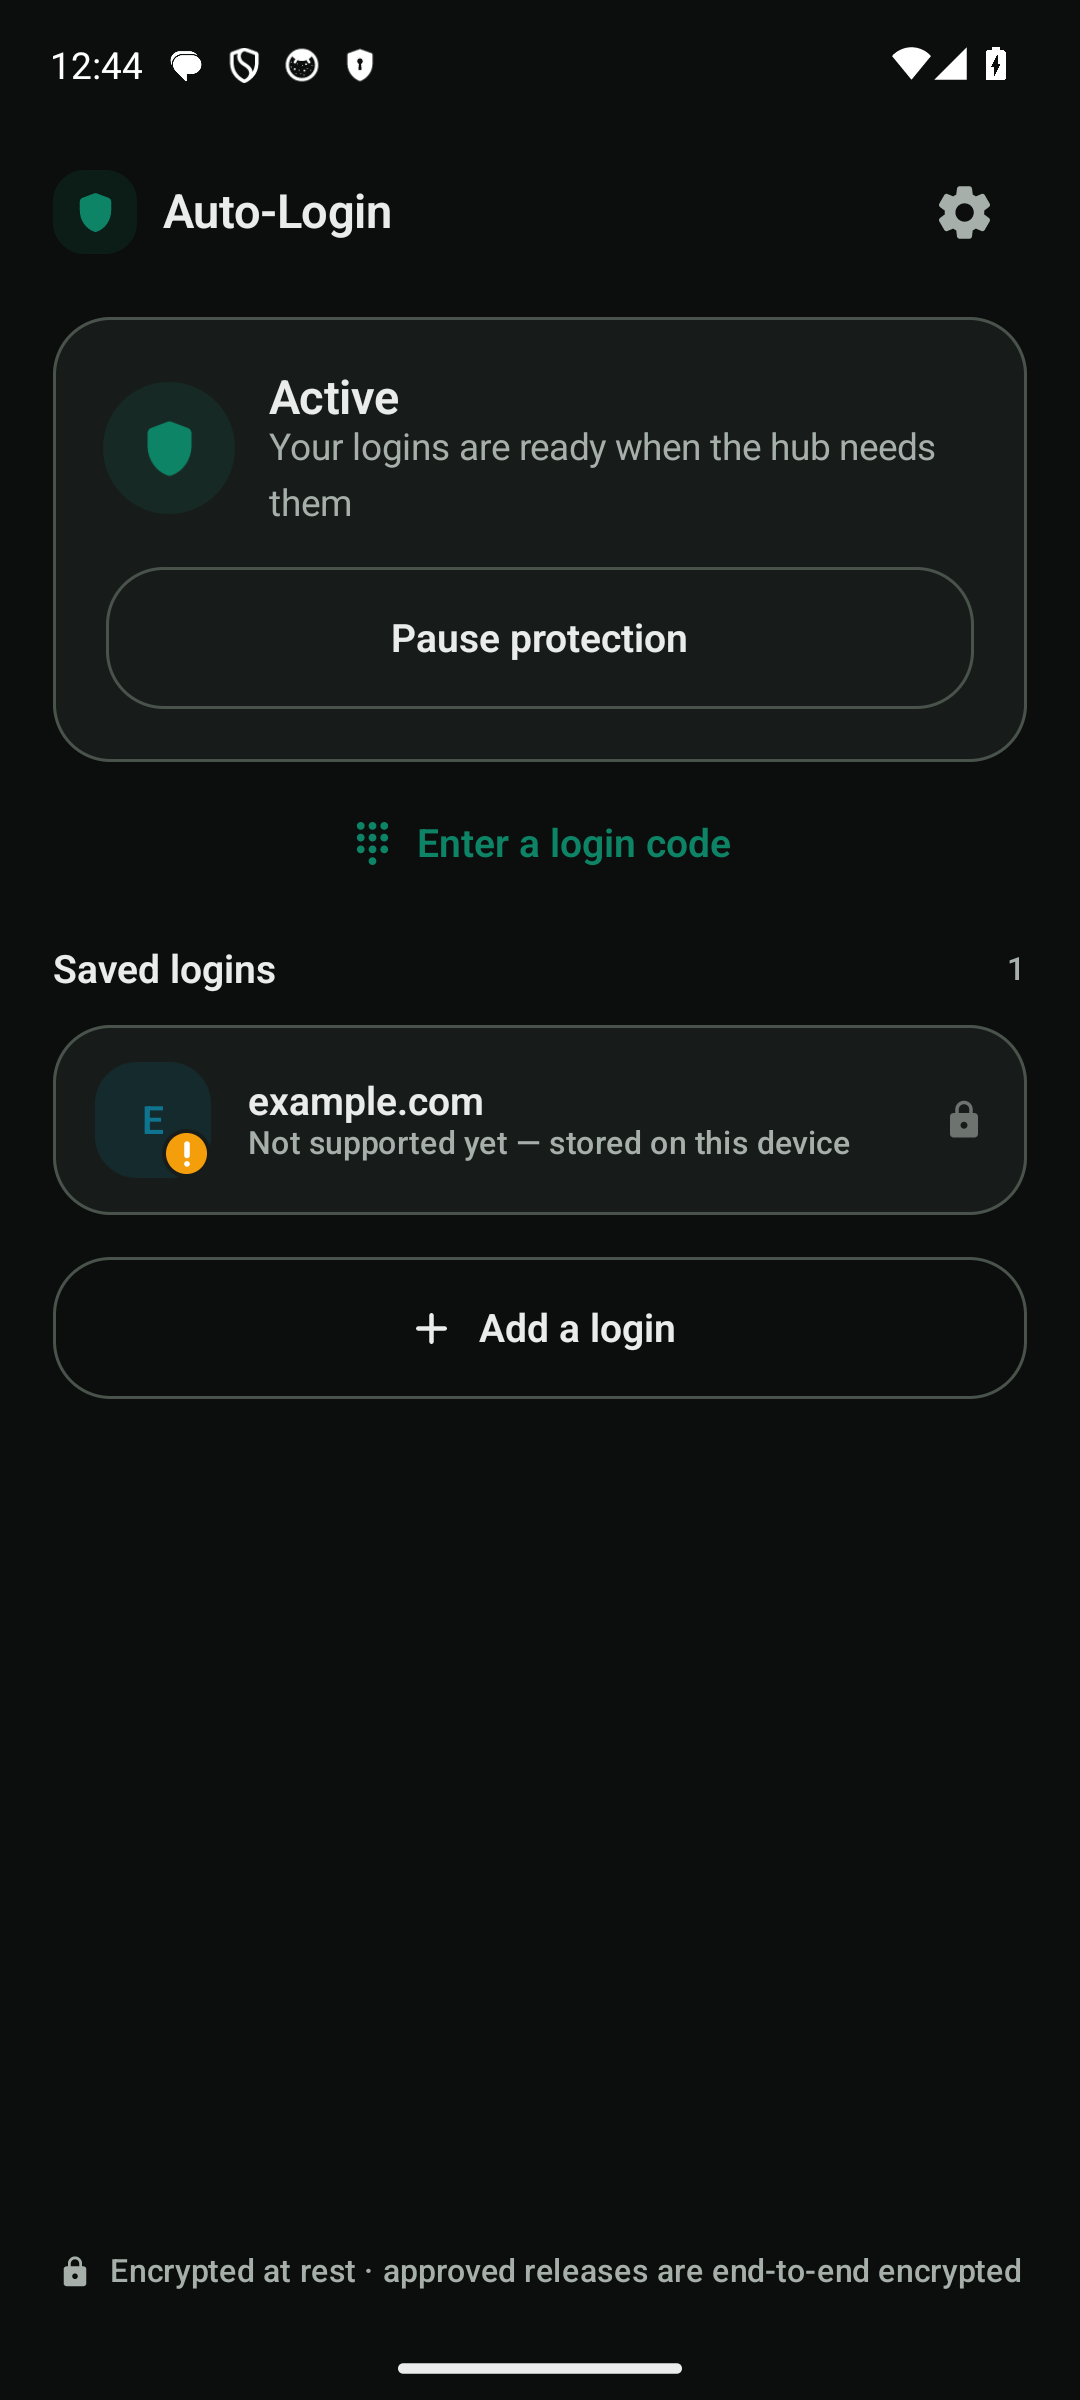
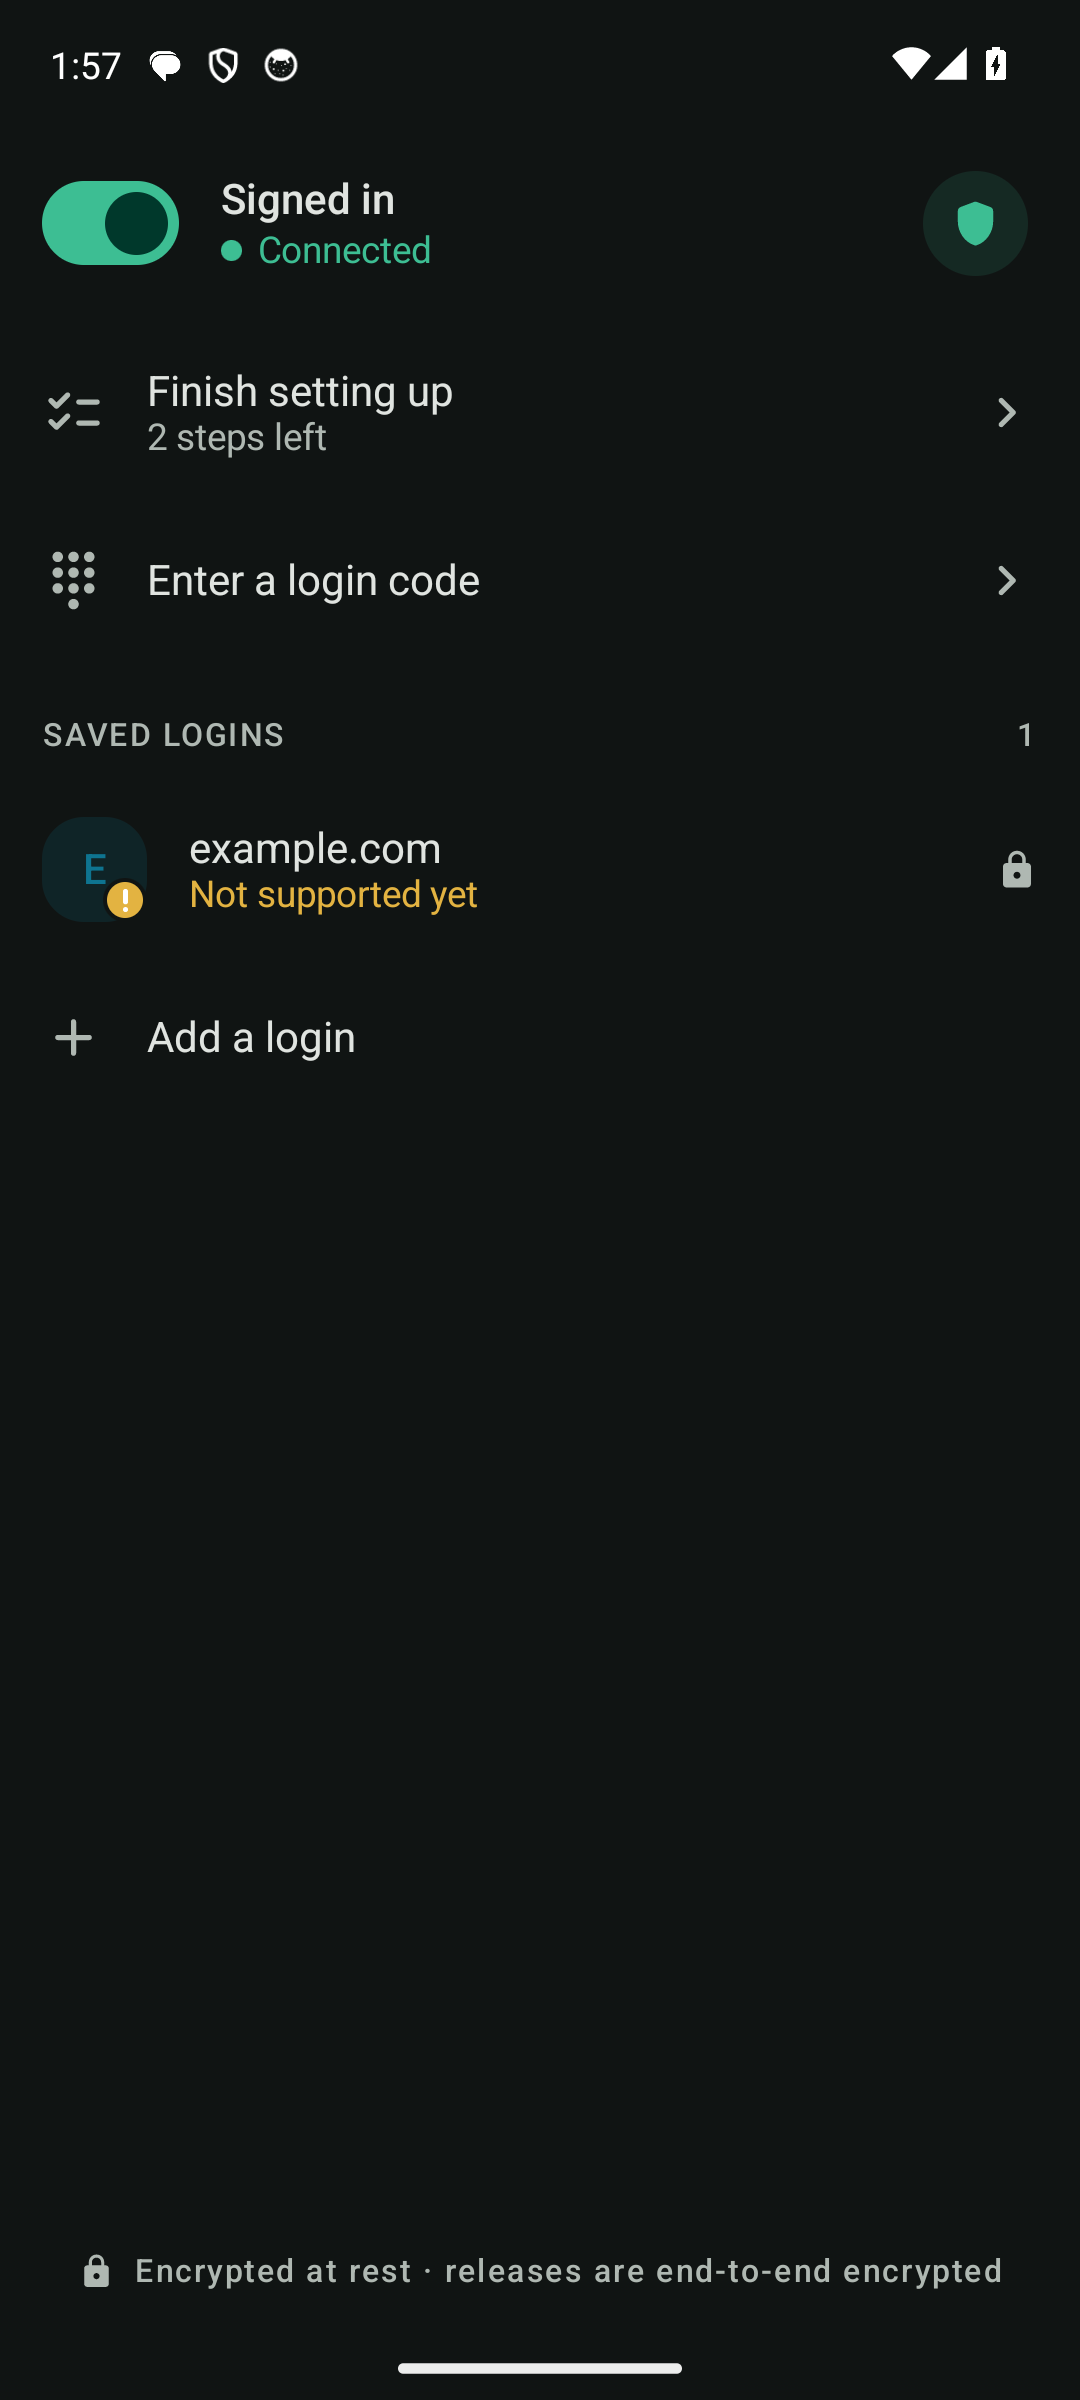
fix(app): header showed "Paused" while the relay was actually running (#6)
* fix(app): header showed "Paused" while the relay was actually running

Right after signing in, Home showed the relay toggle OFF and the status line
"Paused" -- while RelayService was genuinely up and relaying (confirmed on the
emulator: isForeground=true, started at the moment pairing completed). A user who
had just signed in would reasonably conclude auto-login was not working.

RelayService.isRunning was a plain @user field, invisible to Compose, and both
screens copied it into their own `remember { mutableStateOf(...) }` -- a snapshot
taken at first composition and never refreshed. The relay session is established
ASYNCHRONOUSLY after the service starts, so the screen that composes immediately
after pairing always read `false` and latched it forever. Nothing recomposed when
the session actually landed.

isRunning is now backed by Compose snapshot state, so reads are reactive. Home and
Settings now split the two states the surrounding comments already described but
never wired: the Switch reflects the REQUESTED state (so a tap answers instantly)
while the status line reflects the ACTUAL session, with the difference between them
surfacing as the existing CONNECTING state. A LaunchedEffect adopts the service's
own state whenever it changes, which both resolves an in-flight toggle and corrects
the header when the relay comes up on its own -- after pairing, or on a START_STICKY
restart.

Verified on the emulator: the same cold-start-after-pairing path that previously
[…]

diff --git a/daemon/shells/android/app/src/main/java/ai/rindler/autologin/RelayService.kt b/daemon/shells/android/app/src/main/java/ai/rindler/autologin/RelayService.kt
@@ -24,6 +24,7 @@ import android.content.Intent
 import android.content.pm.ServiceInfo
 import android.os.Build
 import android.os.IBinder
+import androidx.compose.runtime.mutableStateOf
 import androidx.core.app.NotificationCompat
 
 class RelayService : Service() {
@@ -157,10 +158,22 @@ class RelayService : Service() {
         private const val CHANNEL = "custody_relay"
         private const val NOTIF_ID = 1
 
-        /** Whether the relay is live (drives the Home status). Best-effort. */
-        @Volatile
-        var isRunning: Boolean = false
-            private set
+        /**
+         * Whether the relay is live (drives the Home status). Best-effort.
+         *
+         * Backed by Compose snapshot state, NOT a plain @Volatile field, because the UI
+         * observes it. The relay session is established asynchronously after the service
+         * starts, so a screen that merely read this once at composition — Home, right
+         * after pairing — latched `false` and showed "Paused" while the relay was
+         * genuinely up. Snapshot state makes the read reactive so the header corrects
+         * itself the moment the session lands. Writes are thread-safe.
+         */
+        private val runningState = mutableStateOf(false)
+        var isRunning: Boolean
+            get() = runningState.value
+            private set(value) {
+                runningState.value = value
+            }
 
         /** Whether the device-egress tunnel is live (drives the egress status). */
         @Volatile

diff --git a/daemon/shells/android/app/src/main/java/ai/rindler/autologin/ui/HomeScreen.kt b/daemon/shells/android/app/src/main/java/ai/rindler/autologin/ui/HomeScreen.kt
@@ -49,7 +49,16 @@ fun HomeScreen(
     val ctx = LocalContext.current
     val cs = MaterialTheme.colorScheme
     val warningInk = ai.rindler.autologin.ui.theme.LocalExtendedColors.current.warning
-    var active by remember { mutableStateOf(RelayService.isRunning) }
+    // The relay's ACTUAL state, observed (RelayService.isRunning is snapshot state), and
+    // the user's REQUESTED state. They differ only while a toggle is in flight: the relay
+    // session is established asynchronously, so the switch answers immediately while the
+    // status line keeps telling the truth until the session really lands.
+    val running = RelayService.isRunning
+    var requested by remember { mutableStateOf(running) }
+    // Adopt the service's own state whenever it changes — this both resolves an in-flight
+    // toggle and corrects the header when the relay comes up on its own (right after
+    // pairing, or a START_STICKY restart).
+    LaunchedEffect(running) { requested = running }
     var sites by remember { mutableStateOf(store.sites()) }
     // Supported-site domains (lowercased) from the live catalog, so a saved login for
     // a site the hub hasn't mapped yet is badged with a warning. Empty until loaded /
@@ -88,12 +97,12 @@ fun HomeScreen(
             AccountHeader(
                 email = store.accountEmail(),
                 avatarUrl = store.avatarUrl(),
-                status = deriveConnectionStatus(active, toggleInFlight = false),
-                serviceEnabled = active,
-                toggleInFlight = false,
+                status = deriveConnectionStatus(running, toggleInFlight = requested != running),
+                serviceEnabled = requested,
+                toggleInFlight = requested != running,
                 onToggle = {
-                    active = !active
-                    if (active) RelayService.ensureRunning(ctx) else RelayService.stop(ctx)
+                    requested = !requested
+                    if (requested) RelayService.ensureRunning(ctx) else RelayService.stop(ctx)
                 },
                 onOpenSettings = onSettings,
                 scrolled = scrolled,

diff --git a/daemon/shells/android/app/src/main/java/ai/rindler/autologin/ui/SettingsScreen.kt b/daemon/shells/android/app/src/main/java/ai/rindler/autologin/ui/SettingsScreen.kt
@@ -21,6 +21,7 @@ import androidx.compose.material3.MaterialTheme
 import androidx.compose.material3.Text
 import androidx.compose.material3.TextButton
 import androidx.compose.runtime.Composable
+import androidx.compose.runtime.LaunchedEffect
 import androidx.compose.runtime.getValue
 import androidx.compose.runtime.mutableStateOf
 import androidx.compose.runtime.remember
@@ -54,7 +55,11 @@ fun SettingsScreen(
     val cs = MaterialTheme.colorScheme
     // The relay enabled/paused state drives the AccountHeader Switch here too (the same
     // component as Home; only the avatar is inert on Settings via onOpenSettings = null).
-    var active by remember { mutableStateOf(RelayService.isRunning) }
+    // Actual vs requested, same split as Home: RelayService.isRunning is snapshot state, so
+    // the status line follows the real session while the switch answers the tap at once.
+    val running = RelayService.isRunning
+    var requested by remember { mutableStateOf(running) }
+    LaunchedEffect(running) { requested = running }
     var confirmSignOut by remember { mutableStateOf(false) }
     // Sign-out is a NETWORK action first: it unlinks the device server-side (Mobile.unpair
     // -> POST /devices/revoke-self) before anything local is wiped. If that call fails the
@@ -99,12 +104,12 @@ fun SettingsScreen(
         AccountHeader(
             email = store.accountEmail(),
             avatarUrl = store.avatarUrl(),
-            status = deriveConnectionStatus(active, toggleInFlight = false),
-            serviceEnabled = active,
-            toggleInFlight = false,
+            status = deriveConnectionStatus(running, toggleInFlight = requested != running),
+            serviceEnabled = requested,
+            toggleInFlight = requested != running,
             onToggle = {
-                active = !active
-                if (active) RelayService.ensureRunning(ctx) else RelayService.stop(ctx)
+                requested = !requested
+                if (requested) RelayService.ensureRunning(ctx) else RelayService.stop(ctx)
             },
             onOpenSettings = null,
             scrolled = false,